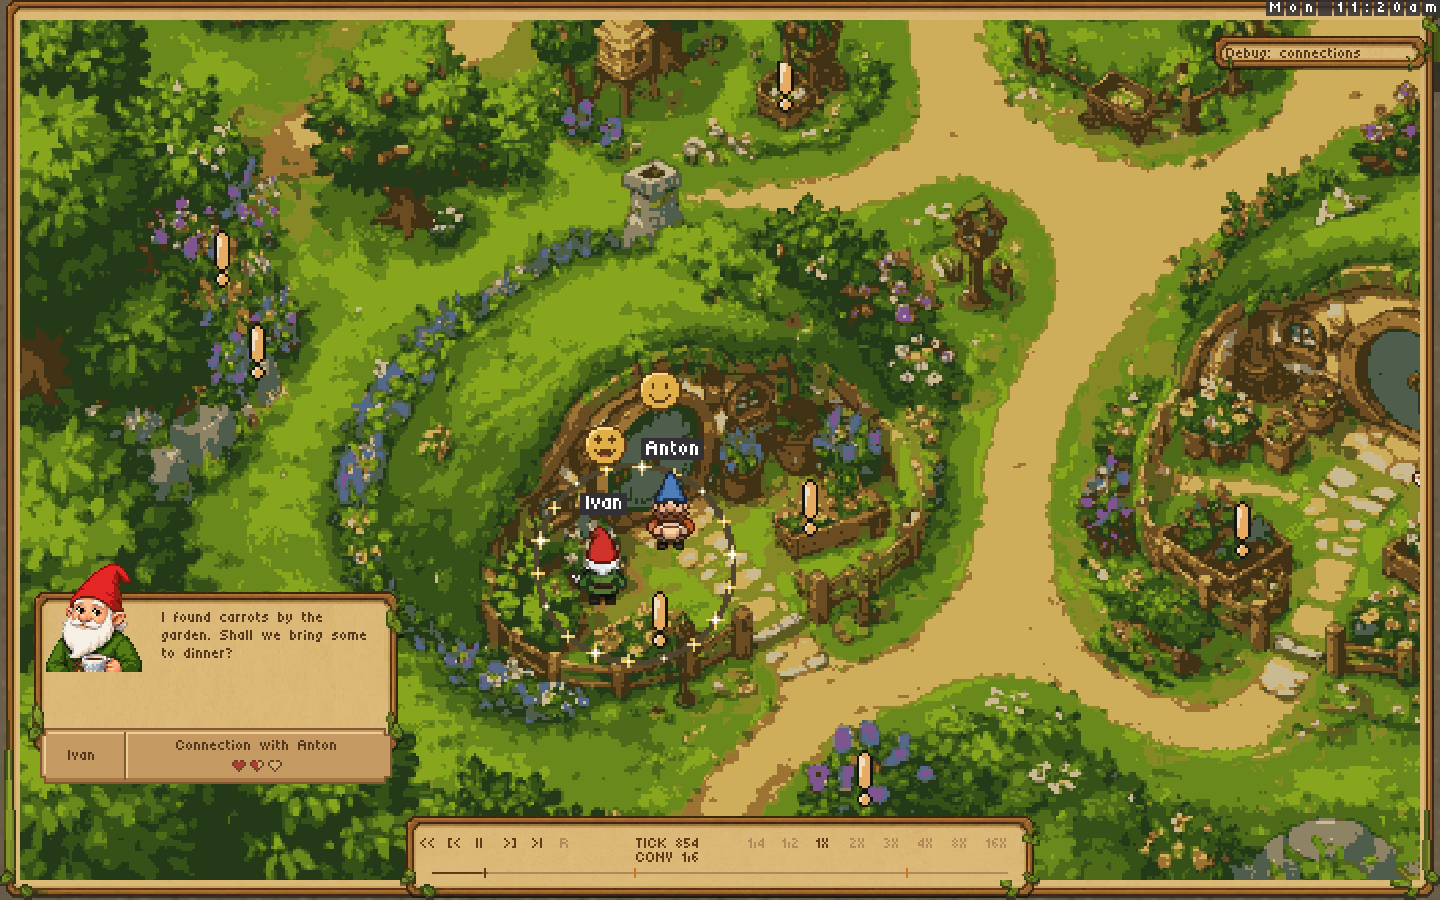
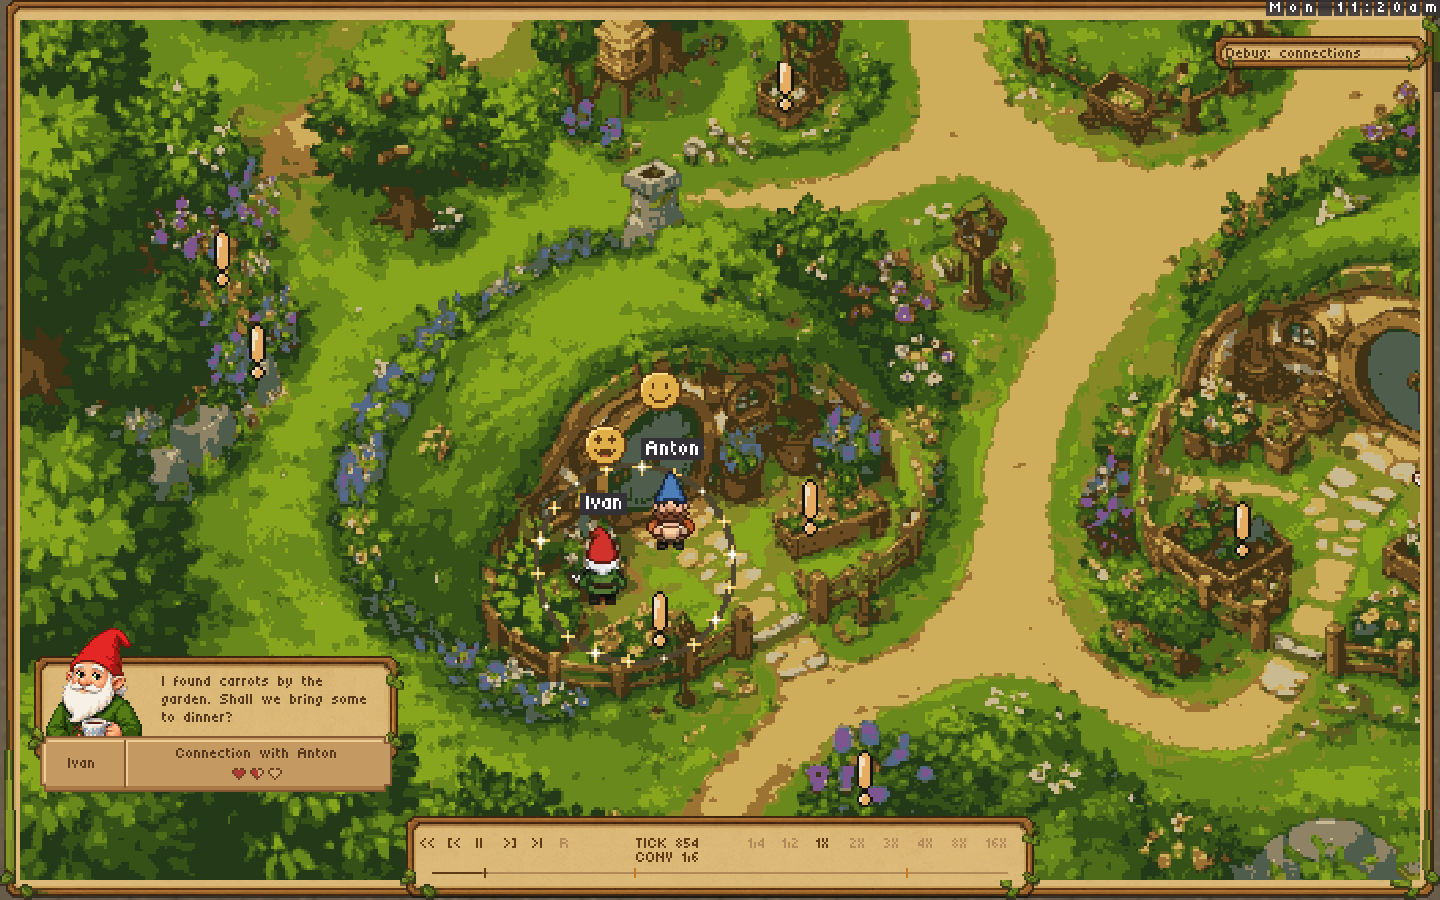
Refresh connection review after latest PR50 card fixes

Changed region(s): [[0.0, 0.6222, 0.2812, 0.9022]]

diff --git a/docs/connections.md b/docs/connections.md
@@ -1,6 +1,6 @@
 # Connections
 
-This feature branch is rebased onto viewer stability PR #50 at `63146e5`.
+This feature branch is rebased onto viewer stability PR #50 at `e164a7e`.
 Merge #50 first, then rebase onto master; the connections work stays in PR #51.
 
 [Run a real local Claude-subscription playtest](claude-subscription-replays.md).
